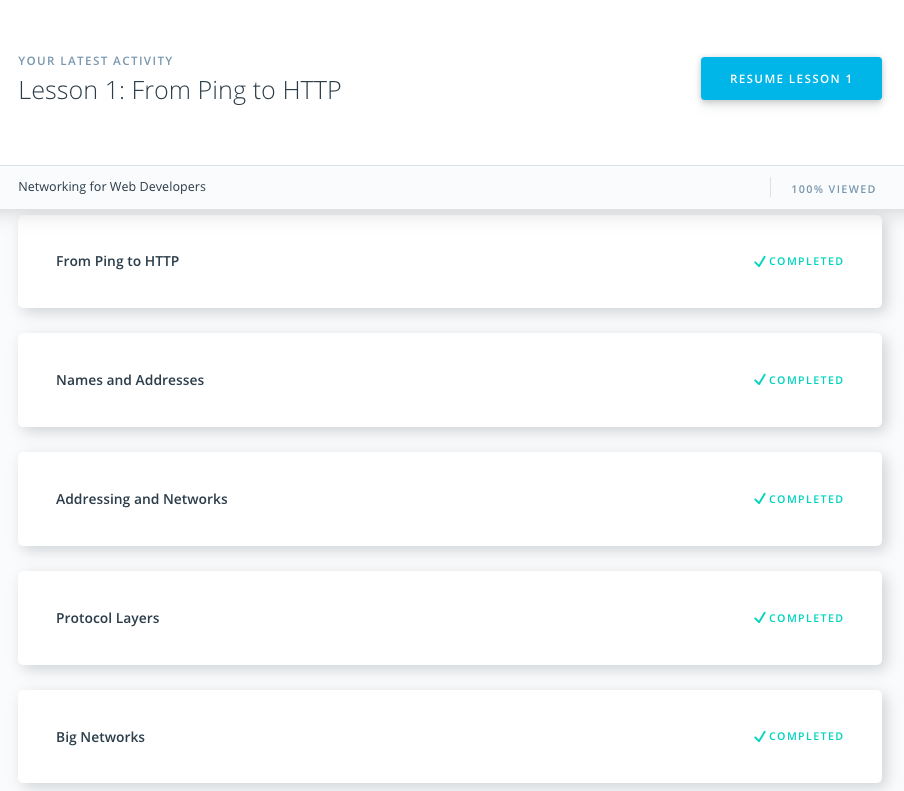
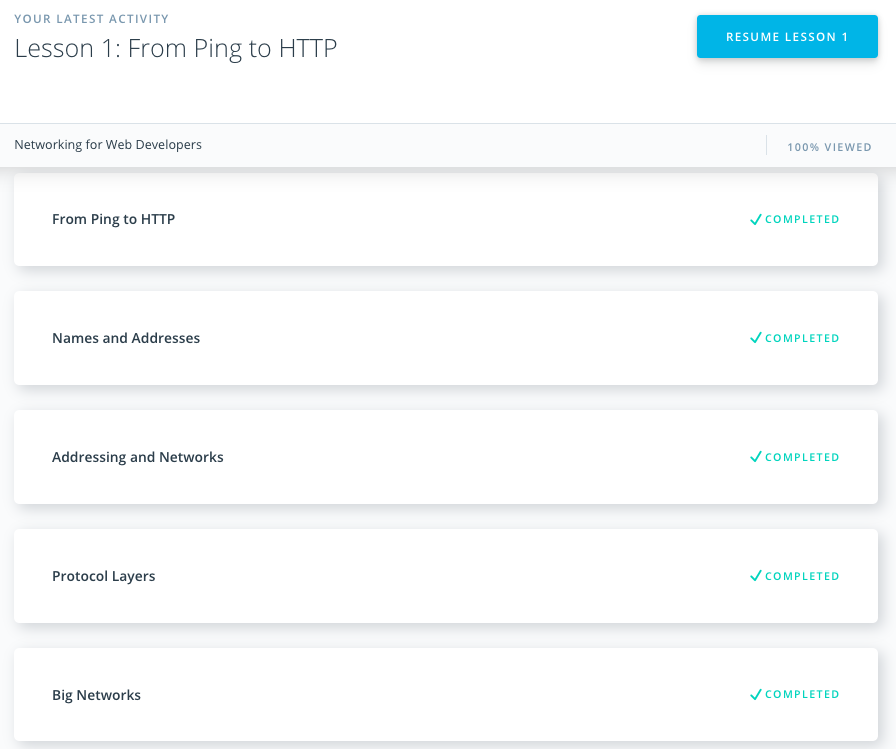
Correct a word, change links to photos, crop screen of Networking course

diff --git a/README.md b/README.md
@@ -1,7 +1,7 @@
 # Kottans Frontend Tasks
 ## Git and GitHub
 
-![Screenshot of performed tasks](https://github.com/denislukianenko/kottans-frontend/blob/master/git-intro/udacity-screenshot.png)
+![Screenshot of performed tasks](./git-intro/udacity-screenshot.png)
 
 Ok, I finally got familiar with Git basics. I heard about it for few years, but used for 0 years. Well, I used git clone, git init. Since last month had used commit, push and pull, but never understood how it really works. Course from Udacity, though looked too long for such topic, helped me to understand commits, branching, collaboration via forking and pull requests. Finally helped me to understand that there exists such thing as stage area and why it exists :) 
 
@@ -11,9 +11,10 @@ I also, wish that lections for the couse were even more interective and maybe ha
 
 ## Linux, Command Line, HTTP Tools
 ![Screenshot of performed tasks](./task_linux_cli/codecademy-screenshot.png)
-I got knowledge about combining command options, like -alt. I also got knoledge about work of cp command, and its ability to work with multiple files, and choose files to copy with wildcards. Now I also know that move (mv) can be used to rename files.  I got knowledge about input/output, rewriting and appending to files, piping with "|", commands sort, uniq and grep (wow, we can search mathes in files from commandline). Also I learned sed command and it's usage for outputing results with "filter". I also learned nano text editor; how to setup aliases and variables in .bash_profile; environment variables that contain info about environment.
+After Udacity's courese I got knowledge about combining command options, like -alt; work of cp command, and its ability to work with multiple files, and choose files to copy with wildcards. Now I also know that move (mv) can be used to rename files. I got knowledge about input/output, rewriting and appending to files, piping with "|", commands sort, uniq and grep (wow, we can search matches in files from commandline). Also I learned sed command and it's usage for outputing results with "filter". I also learned nano text editor; how to setup aliases and variables in .bash_profile; environment variables that contain info about environment.
 
 > Ok, i'm writing this as I watch tutors (not afterwards) and I'm gonna admit, after being spoiled with cool and practice-centered Undacity and Codecademy courses, two long Tutsplus articles are boring, have hard to understand language and generally leave nothing new on this theme in my brain. They're just a long list of technologies and their definitions (as for me). Meh. So I'll try Udacity's "Networking for Web Developers" to better understend the theme.
 
 ![Screenshot of performed tasks](./task_linux_cli/udacity-screenshot.png)
+
 Ok, so Udacity’s course on Networking gave me a better understanding of work of IP, TCP and HTTP layers of network structure. I finally understand what "subnet mask" on my router means, how people are dealing with running out of ipv4s and that HTTP is just a dialogue between browser and server with magic words, handled by TCP. Each layer from Hardware>IP>TCP>HTTP gives guarantees and simple interface of control for the other layer. I’ve got familiar with cool abilities of tcpdump to catch the packages. Knowledge about how routers control speed of receiving of data or how sites deal with distiguishing many users with the same public ip address, these are also very interesting.
